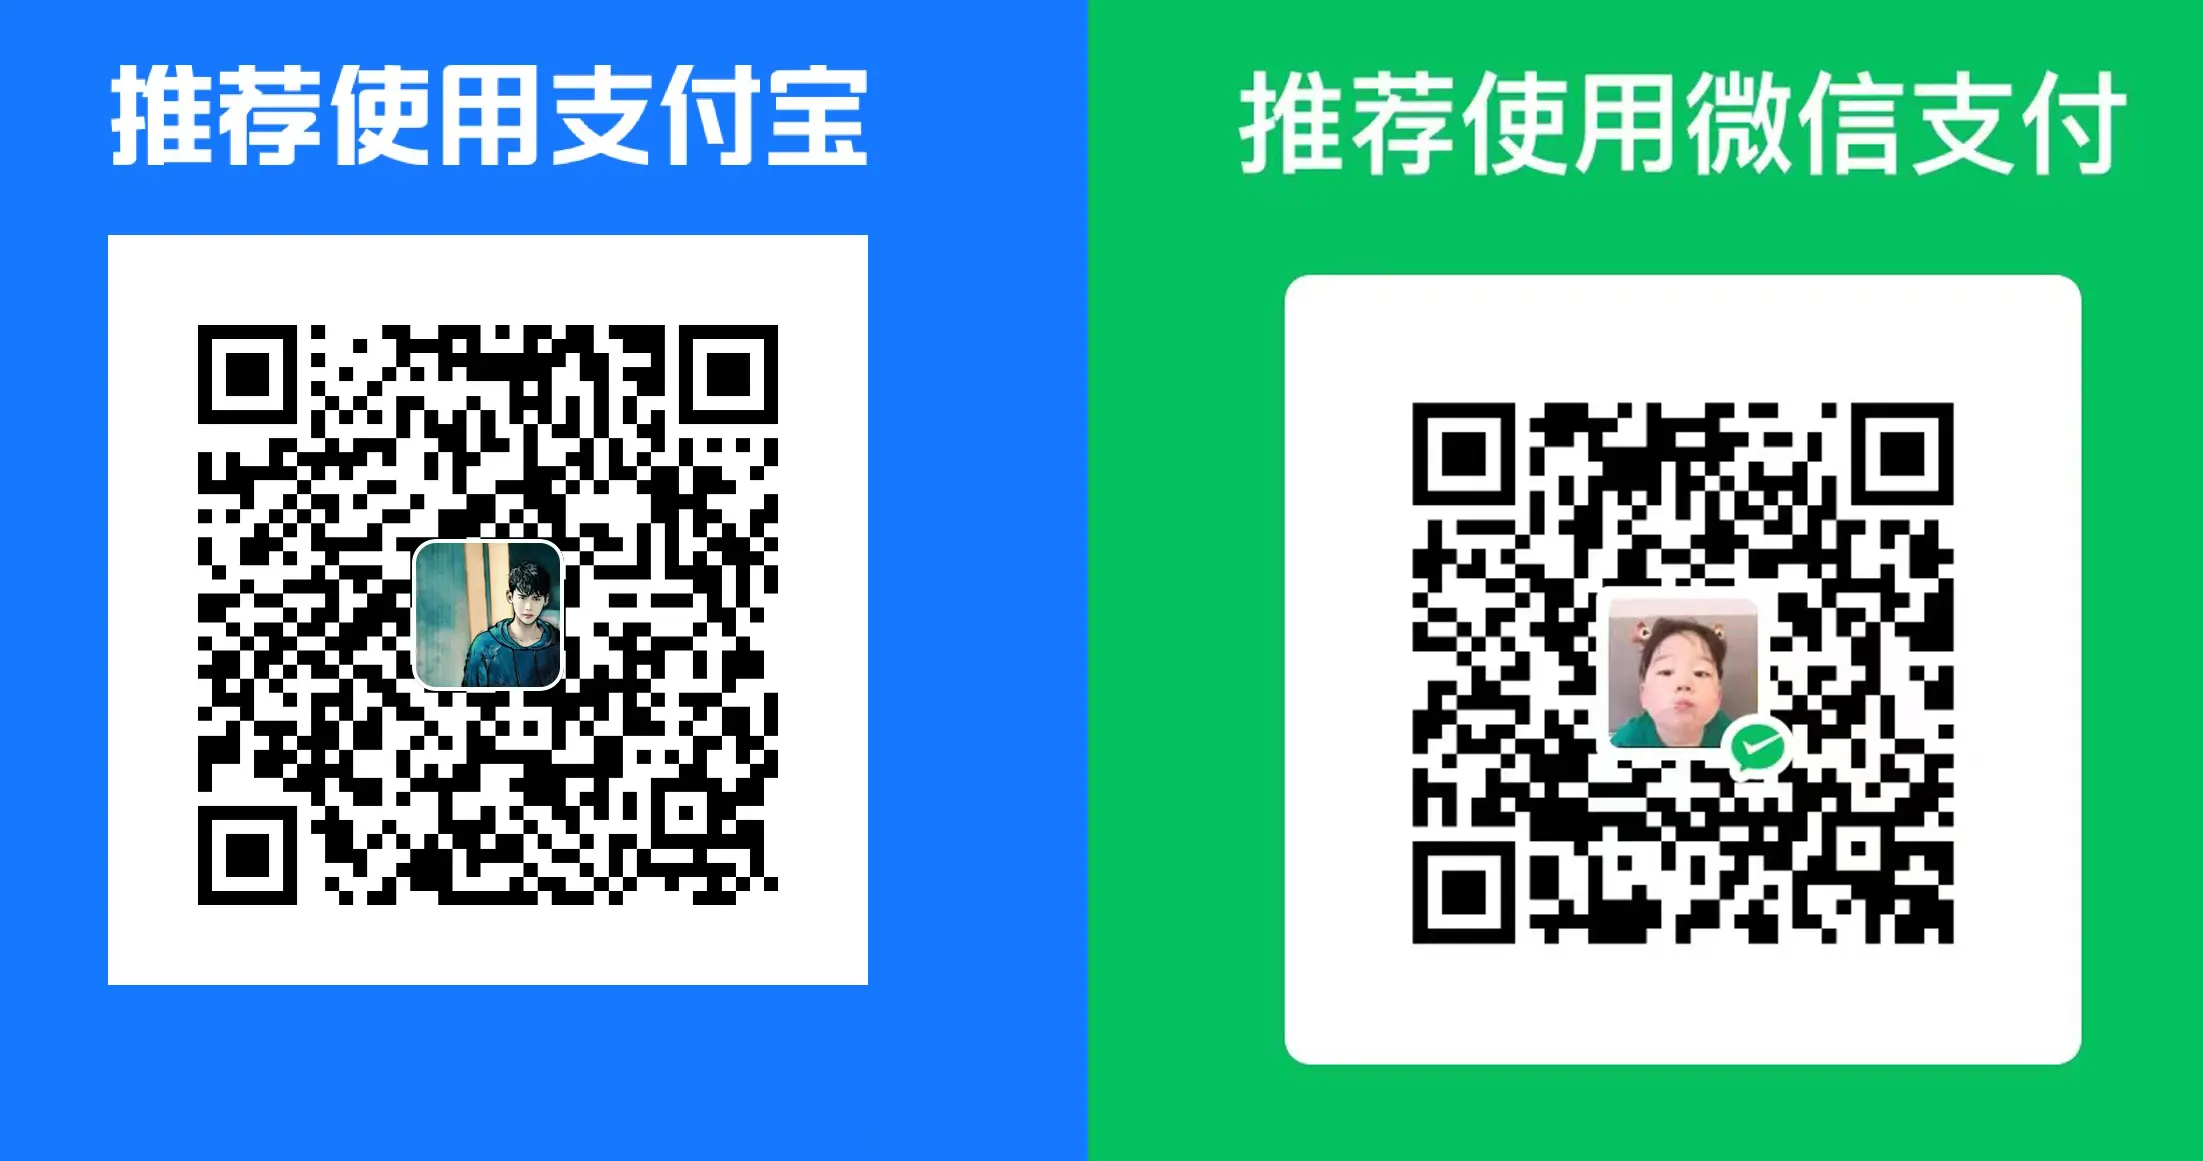
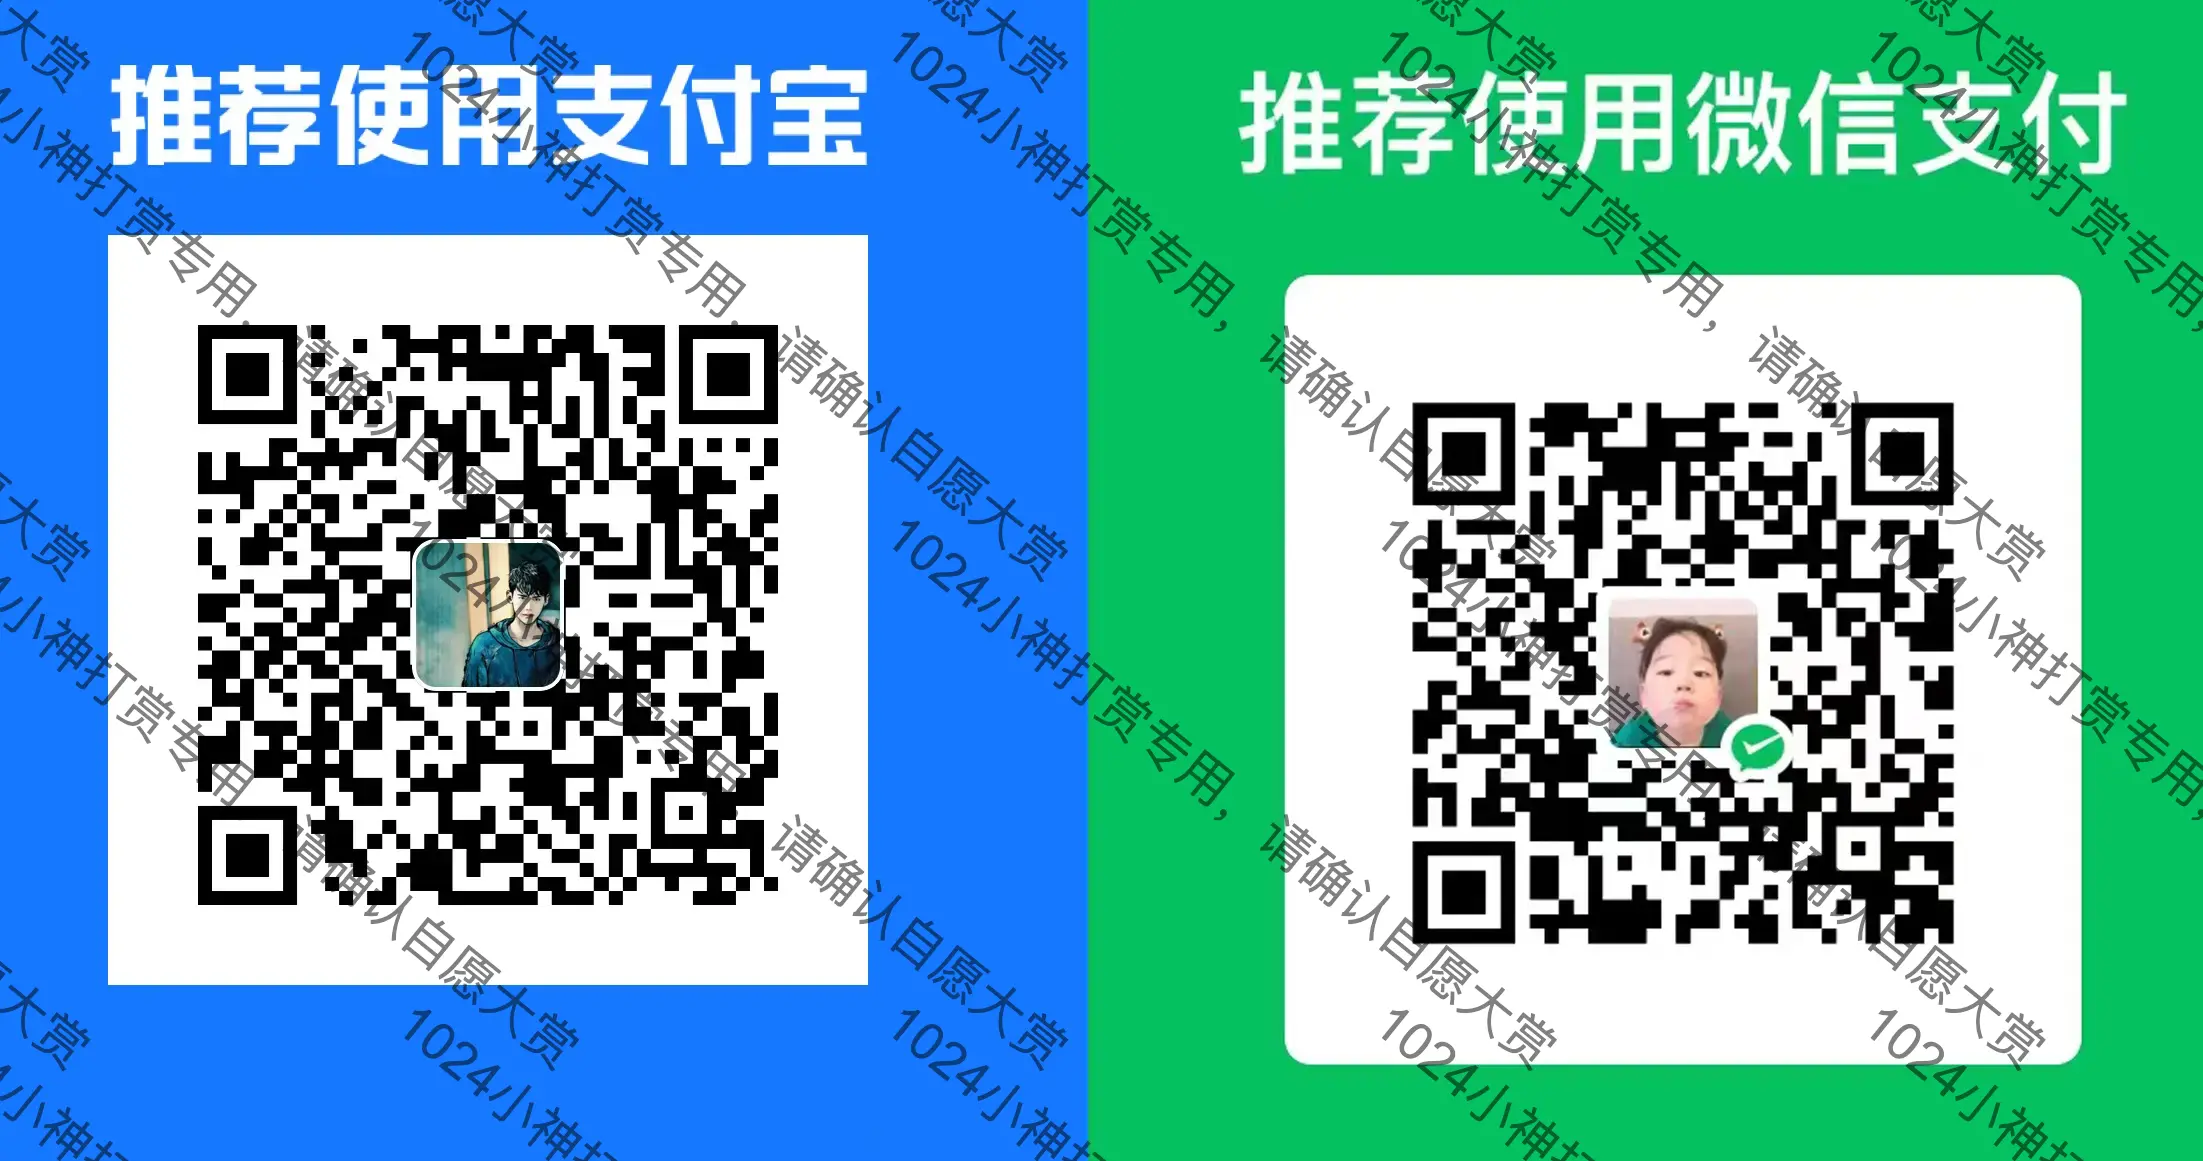
Update README_JP.md to replace payment image with a webp format, remove unused WeChat and Alipay images, and update imports in about.vue to use webp images. Enhance image handling for better performance.

diff --git a/scripts/water.html b/scripts/water.html
@@ -1,0 +1,301 @@
+<!DOCTYPE html>
+<html lang="zh-CN">
+    <head>
+        <meta charset="UTF-8" />
+        <meta name="viewport" content="width=device-width, initial-scale=1.0" />
+        <title>图片水印添加工具</title>
+        <style>
+            body {
+                font-family: Arial, sans-serif;
+                max-width: 800px;
+                margin: 0 auto;
+                padding: 20px;
+                background-color: #f5f5f5;
+            }
+            h1 {
+                text-align: center;
+                color: #333;
+            }
+            .container {
+                background-color: white;
+                padding: 20px;
+                border-radius: 8px;
+                box-shadow: 0 2px 10px rgba(0, 0, 0, 0.1);
+            }
+            .control-group {
+                margin-bottom: 15px;
+            }
+            label {
+                display: block;
+                margin-bottom: 5px;
+                font-weight: bold;
+            }
+            input[type='text'],
+            input[type='color'],
+            input[type='range'] {
+                width: 100%;
+                padding: 8px;
+                border: 1px solid #ddd;
+                border-radius: 4px;
+                box-sizing: border-box;
+            }
+            button {
+                background-color: #4caf50;
+                color: white;
+                border: none;
+                padding: 10px 15px;
+                border-radius: 4px;
+                cursor: pointer;
+                font-size: 16px;
+                margin-right: 10px;
+            }
+            button:hover {
+                background-color: #45a049;
+            }
+            canvas {
+                max-width: 100%;
+                display: block;
+                margin: 20px auto;
+                border: 1px solid #ddd;
+            }
+            .preview-container {
+                text-align: center;
+                margin-top: 20px;
+            }
+            .hidden {
+                display: none;
+            }
+            .slider-container {
+                display: flex;
+                align-items: center;
+            }
+            .slider-container input[type='range'] {
+                flex-grow: 1;
+                margin-right: 10px;
+            }
+        </style>
+    </head>
+    <body>
+        <div class="container">
+            <h1>图片水印添加工具</h1>
+
+            <div class="control-group">
+                <label for="imageUpload">选择图片：</label>
+                <input type="file" id="imageUpload" accept="image/*" />
+            </div>
+
+            <div class="control-group">
+                <label for="watermarkText">水印文字：</label>
+                <input
+                    type="text"
+                    id="watermarkText"
+                    placeholder="输入水印文字"
+                    value="1024小神打赏专用，请确认自愿打赏"
+                />
+            </div>
+
+            <div class="control-group">
+                <label for="watermarkColor">水印颜色：</label>
+                <input type="color" id="watermarkColor" value="#000000" />
+            </div>
+
+            <div class="control-group">
+                <label for="watermarkOpacity">水印透明度：</label>
+                <div class="slider-container">
+                    <input
+                        type="range"
+                        id="watermarkOpacity"
+                        min="0"
+                        max="1"
+                        step="0.1"
+                        value="0.5"
+                    />
+                    <span id="opacityValue">0.5</span>
+                </div>
+            </div>
+
+            <div class="control-group">
+                <label for="watermarkSize">水印大小：</label>
+                <div class="slider-container">
+                    <input
+                        type="range"
+                        id="watermarkSize"
+                        min="10"
+                        max="100"
+                        value="30"
+                    />
+                    <span id="sizeValue">30</span>
+                </div>
+            </div>
+
+            <div class="control-group">
+                <label for="watermarkAngle">水印角度：</label>
+                <div class="slider-container">
+                    <input
+                        type="range"
+                        id="watermarkAngle"
+                        min="0"
+                        max="360"
+                        value="46"
+                    />
+                    <span id="angleValue">0°</span>
+                </div>
+            </div>
+
+            <div class="control-group">
+                <label for="watermarkSpacing">水印间距：</label>
+                <div class="slider-container">
+                    <input
+                        type="range"
+                        id="watermarkSpacing"
+                        min="50"
+                        max="300"
+                        value="215"
+                    />
+                    <span id="spacingValue">215</span>
+                </div>
+            </div>
+
+            <button id="addWatermarkBtn">添加水印</button>
+            <button id="downloadBtn" class="hidden">下载图片</button>
+
+            <div class="preview-container">
+                <canvas id="canvas" class="hidden"></canvas>
+            </div>
+        </div>
+
+        <script>
+            // 获取DOM元素
+            const imageUpload = document.getElementById('imageUpload')
+            const watermarkText = document.getElementById('watermarkText')
+            const watermarkColor = document.getElementById('watermarkColor')
+            const watermarkOpacity = document.getElementById('watermarkOpacity')
+            const opacityValue = document.getElementById('opacityValue')
+            const watermarkSize = document.getElementById('watermarkSize')
+            const sizeValue = document.getElementById('sizeValue')
+            const watermarkAngle = document.getElementById('watermarkAngle')
+            const angleValue = document.getElementById('angleValue')
+            const watermarkSpacing = document.getElementById('watermarkSpacing')
+            const spacingValue = document.getElementById('spacingValue')
+            const addWatermarkBtn = document.getElementById('addWatermarkBtn')
+            const downloadBtn = document.getElementById('downloadBtn')
+            const canvas = document.getElementById('canvas')
+            const ctx = canvas.getContext('2d')
+
+            // 更新滑块值显示
+            watermarkOpacity.addEventListener('input', () => {
+                opacityValue.textContent = watermarkOpacity.value
+            })
+
+            watermarkSize.addEventListener('input', () => {
+                sizeValue.textContent = watermarkSize.value
+            })
+
+            watermarkAngle.addEventListener('input', () => {
+                angleValue.textContent = watermarkAngle.value + '°'
+            })
+
+            watermarkSpacing.addEventListener('input', () => {
+                spacingValue.textContent = watermarkSpacing.value
+            })
+
+            // 图片上传处理
+            imageUpload.addEventListener('change', function (e) {
+                const file = e.target.files[0]
+                if (!file) return
+
+                const reader = new FileReader()
+                reader.onload = function (event) {
+                    const img = new Image()
+                    img.onload = function () {
+                        // 设置画布大小为图片大小
+                        canvas.width = img.width
+                        canvas.height = img.height
+
+                        // 绘制原始图片
+                        ctx.drawImage(img, 0, 0)
+
+                        // 显示画布
+                        canvas.classList.remove('hidden')
+                        downloadBtn.classList.add('hidden')
+                    }
+                    img.src = event.target.result
+                }
+                reader.readAsDataURL(file)
+            })
+
+            // 添加水印
+            addWatermarkBtn.addEventListener('click', function () {
+                if (!imageUpload.files[0]) {
+                    alert('请先上传图片')
+                    return
+                }
+
+                const text = watermarkText.value || '示例水印'
+                const color = watermarkColor.value
+                const opacity = parseFloat(watermarkOpacity.value)
+                const size = parseInt(watermarkSize.value)
+                const angle = parseInt(watermarkAngle.value)
+                const spacing = parseInt(watermarkSpacing.value)
+
+                // 获取原始图片数据
+                const img = new Image()
+                img.onload = function () {
+                    canvas.width = img.width
+                    canvas.height = img.height
+                    ctx.drawImage(img, 0, 0)
+
+                    // 设置水印样式
+                    ctx.font = `${size}px Arial`
+                    ctx.fillStyle = color
+                    ctx.globalAlpha = opacity
+                    ctx.textAlign = 'center'
+                    ctx.textBaseline = 'middle'
+
+                    // 计算水印位置 - 平铺整个图片
+                    const radians = (angle * Math.PI) / 180
+                    const sin = Math.sin(radians)
+                    const cos = Math.cos(radians)
+
+                    // 计算水印占据的空间
+                    const textWidth = ctx.measureText(text).width
+                    const textHeight = size
+
+                    // 调整间距以适应旋转
+                    const adjustedSpacing = spacing * (1 + Math.abs(sin))
+
+                    // 绘制水印
+                    for (
+                        let x = -canvas.width;
+                        x < canvas.width * 2;
+                        x += adjustedSpacing
+                    ) {
+                        for (
+                            let y = -canvas.height;
+                            y < canvas.height * 2;
+                            y += adjustedSpacing
+                        ) {
+                            ctx.save()
+                            ctx.translate(x, y)
+                            ctx.rotate(radians)
+                            ctx.fillText(text, 0, 0)
+                            ctx.restore()
+                        }
+                    }
+
+                    // 显示下载按钮
+                    downloadBtn.classList.remove('hidden')
+                }
+                img.src = URL.createObjectURL(imageUpload.files[0])
+            })
+
+            // 下载图片
+            downloadBtn.addEventListener('click', function () {
+                const link = document.createElement('a')
+                link.download = 'watermarked-image.png'
+                link.href = canvas.toDataURL('image/png')
+                link.click()
+            })
+        </script>
+    </body>
+</html>

diff --git a/src/pages/about.vue b/src/pages/about.vue
@@ -287,8 +287,8 @@
 
 <script setup lang="ts">
 import pakePlusIcon from '@/assets/images/pakeplus.png'
-import weixin from '@/assets/images/weixin.png'
-import zhifubao from '@/assets/images/zhifubao.png'
+import weixin from '@/assets/images/weixin.webp'
+import zhifubao from '@/assets/images/zhifubao.webp'
 import { useI18n } from 'vue-i18n'
 import { useRouter } from 'vue-router'
 import {

diff --git a/README_JP.md b/README_JP.md
@@ -171,9 +171,8 @@ pnpm run build
 
 1. PakePlus があなたの生活に楽しみをもたらしたなら、サポートしていただけると嬉しいです。
  <p align="center">
-         <img src="https://github.com/Sjj1024/PakePlus/raw/main/docs/static/imgs//pay.png" />
+         <img src="https://github.com/Sjj1024/PakePlus/raw/main/docs/static/imgs/pay.webp" />
  </p>
-
 
 ## Star History
 
